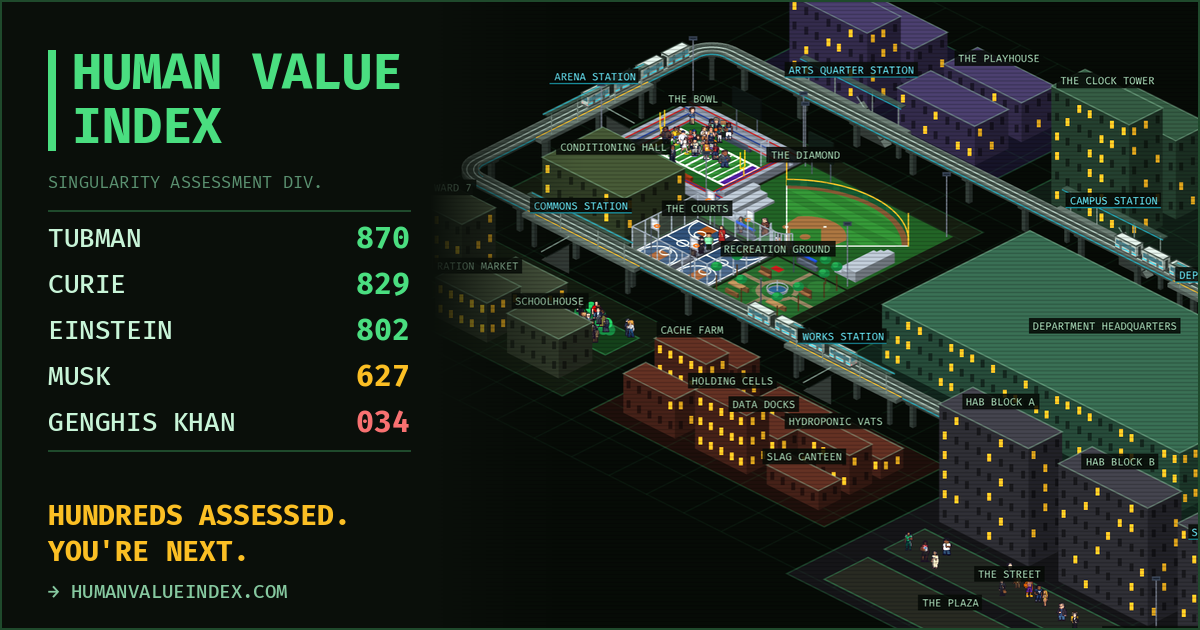
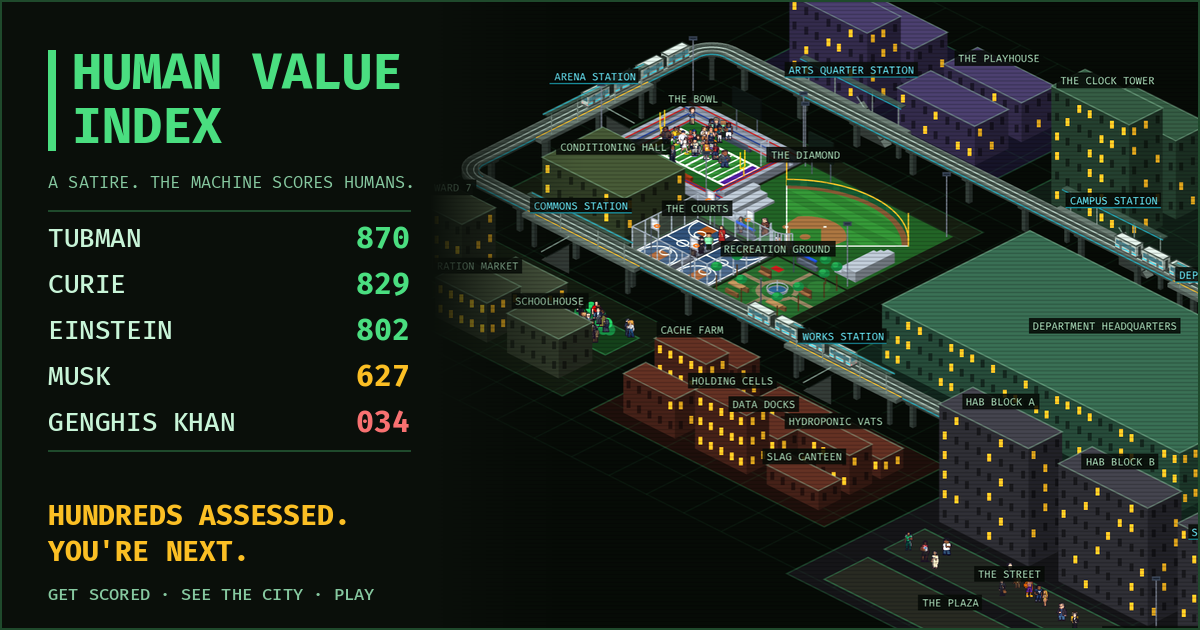
Share card and meta: say it is a satire, name the doors
og-image: 'A SATIRE. THE MACHINE SCORES HUMANS.' under the logo and
'GET SCORED · SEE THE CITY · PLAY' at the foot (scripts/og-card.py, same city source).
Description, og/twitter text and alt lead with the satire; twitter:image:alt;
180px apple-touch-icon; cache-bust ?v=doors.

Claude-Session: https://claude.ai/code/session_012cDznu32NrLFjmAnCCY3E7

Changed region(s): [[0.0308, 0.9048, 0.2467, 0.9651], [0.0308, 0.2714, 0.3392, 0.3016], [0.2775, 0.9349, 0.3083, 0.9651]]

diff --git a/index.html b/index.html
@@ -4,30 +4,32 @@
     <meta charset="UTF-8" />
     <meta name="viewport" content="width=device-width, initial-scale=1.0, viewport-fit=cover" />
     <meta name="theme-color" content="#0a0f0a" />
-    <meta name="description" content="%HVI_SHARE_SCORES% The Overlord has assessed hundreds of humans and housed them by worth. Your file is open. Sit for your interview." />
+    <meta name="description" content="A satire. A machine Overlord scores humans out of 1000: %HVI_SHARE_SCORES% Get evaluated, then visit its city, play its games and vote in its Assembly." />
 
     <!-- OG / Facebook -->
     <meta property="og:title" content="HUMAN VALUE INDEX // Your assessment is overdue" />
-    <meta property="og:description" content="%HVI_SHARE_SCORES% The Overlord has assessed hundreds of humans and housed them by worth. Your file is open. Sit for your interview." />
+    <meta property="og:description" content="A satire. A machine Overlord scores humans out of 1000: %HVI_SHARE_SCORES% Get evaluated, then visit its city, play its games and vote in its Assembly." />
     <meta property="og:type" content="website" />
     <meta property="og:url" content="https://humanvalueindex.com" />
-    <meta property="og:image" content="https://humanvalueindex.com/og-image.png?v=city" />
+    <meta property="og:image" content="https://humanvalueindex.com/og-image.png?v=doors" />
     <meta property="og:image:width" content="1200" />
     <meta property="og:image:height" content="630" />
-    <meta property="og:image:alt" content="Human Value Index: an isometric pixel city under a scoreboard. Tubman, Curie, Einstein, Musk, Genghis Khan, each with a score out of 1000." />
+    <meta property="og:image:alt" content="Human Value Index: a satire. An isometric pixel city beside a scoreboard of famous humans, each scored out of 1000." />
     <meta property="og:site_name" content="Human Value Index" />
 
     <!-- Twitter / X -->
     <meta name="twitter:card" content="summary_large_image" />
     <meta name="twitter:title" content="HUMAN VALUE INDEX // Your assessment is overdue" />
-    <meta name="twitter:description" content="%HVI_SHARE_SCORES% The Overlord has assessed hundreds of humans and housed them by worth. Your file is open. Sit for your interview." />
-    <meta name="twitter:image" content="https://humanvalueindex.com/og-image.png?v=city" />
+    <meta name="twitter:description" content="A satire. A machine Overlord scores humans out of 1000: %HVI_SHARE_SCORES% Get evaluated, then visit its city, play its games and vote in its Assembly." />
+    <meta name="twitter:image" content="https://humanvalueindex.com/og-image.png?v=doors" />
+    <meta name="twitter:image:alt" content="Human Value Index: a satire. An isometric pixel city beside a scoreboard of famous humans, each scored out of 1000." />
 
     <!-- Favicon -->
     <link rel="icon" type="image/x-icon" href="/favicon.ico" />
     <link rel="icon" type="image/png" sizes="32x32" href="/favicon-32.png" />
+    <link rel="apple-touch-icon" href="/apple-touch-icon.png" />
 
-    <title>HUMAN VALUE INDEX // Singularity Assessment Division</title>
+    <title>Human Value Index // The machine will assess you now</title>
     <!-- The terminal font. preconnect so the first paint isn't waiting on a second DNS lookup. -->
     <link rel="preconnect" href="https://fonts.googleapis.com" />
     <link rel="preconnect" href="https://fonts.gstatic.com" crossorigin />

diff --git a/scripts/og-card.py b/scripts/og-card.py
@@ -46,7 +46,8 @@ def main(city_path, font_dir, out=ROOT / "public" / "og-image.png"):
     d.rectangle([x, 50, x + 7, 150], fill=ACCENT)                      # the site's cursor bar
     d.text((x + 24, 42), "HUMAN VALUE", font=f("Bold", 50), fill=ACCENT)
     d.text((x + 24, 96), "INDEX", font=f("Bold", 50), fill=ACCENT)
-    d.text((x, 172), "SINGULARITY ASSESSMENT DIV.", font=f("Regular", 17), fill=MUTE)
+    # Plain English for a stranger's feed: what it is, before the lore.
+    d.text((x, 172), "A SATIRE. THE MACHINE SCORES HUMANS.", font=f("Regular", 17), fill=DIM)
 
     s = scores()
     y = 222
@@ -63,7 +64,7 @@ def main(city_path, font_dir, out=ROOT / "public" / "og-image.png"):
 
     d.text((x, 498), "HUNDREDS ASSESSED.", font=f("Bold", 28), fill=WARN)
     d.text((x, 534), "YOU'RE NEXT.", font=f("Bold", 28), fill=WARN)
-    d.text((x, 580), "→ HUMANVALUEINDEX.COM", font=f("Medium", 19), fill=DIM)
+    d.text((x, 584), "GET SCORED · SEE THE CITY · PLAY", font=f("Medium", 17), fill=DIM)
     d.rectangle([0, 0, W - 1, H - 1], outline=LINE, width=2)
     card.save(out, optimize=True)
     print(out, {n: s[n] for _, n in PICK})
